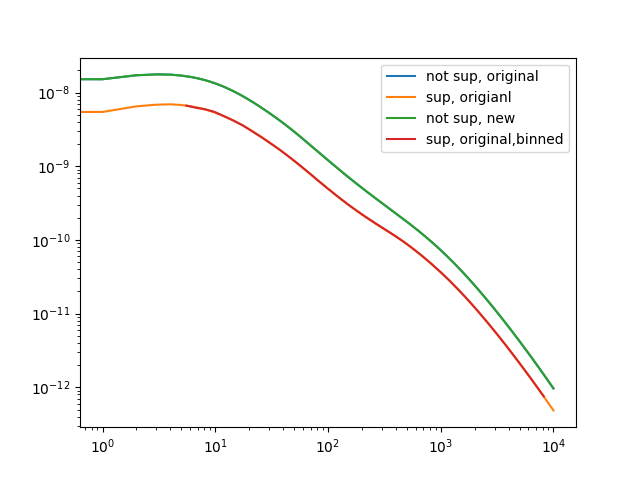
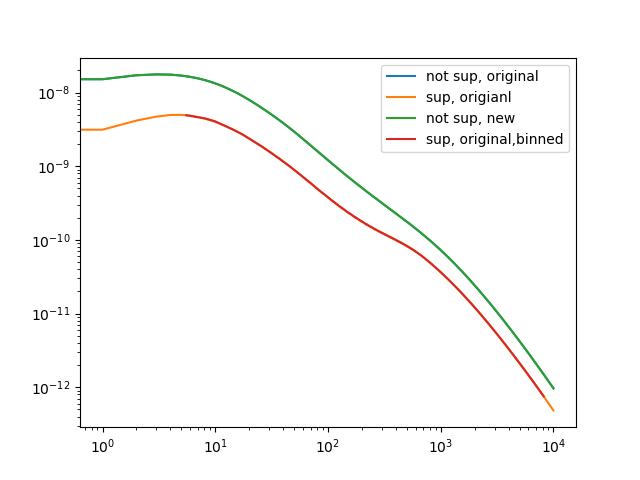
linear fit changes

Changed region(s): [[0.125, 0.1875, 0.625, 0.5], [0.625, 0.5, 0.6562, 0.5312]]

diff --git a/pk_func_fit_linear.py b/pk_func_fit_linear.py
@@ -51,7 +51,8 @@ class Cl_kk_supp:
     mock_data = True
     fname_mock_data = "/home3/kaper/pk_nl/mock_data/mock_cl_z_0.4_lin_fit.txt"
     fname_mock_cinv = "/home3/kaper/pk_nl/mock_data/mock_cinv_z_0.4_lin_fit.txt"
-    n_alphas = 4
+    n_alphas = 3
+    k_bins = np.array([5e-5,4e-3,4e-1,4e1,3e3])
 
     def __init__(self):
         pars = camb.CAMBparams()
@@ -76,14 +77,15 @@ class Cl_kk_supp:
         self.d["data_binned"] = data_binned
         
 
-    def make_mock_data(self,sup,alphas):
+    def make_mock_data(self,alphas,sup_now = True):
         self.alphas = alphas
-        cl = self.get_Cl_kk(sup=sup)
+        cl = self.get_Cl_kk(sup_now=True)
+        cl_out = np.sum(cl,axis=1)
         nls_dict = {'kk': lambda x: x*0+self.shape_std**2/(2.*self.ngal_arcmin2*1.18e7)}
         noise_cov = nls_dict["kk"](self.ells)
         self.noise_cov = noise_cov
-        cls_dict = {"kk":interp1d(self.ells,cl)}
-        cents,data_binned = self.binner.bin(self.ells,cl)
+        cls_dict = {"kk":interp1d(self.ells,cl_out)}
+        cents,data_binned = self.binner.bin(self.ells,cl_out)
         cov = pf.gaussian_band_covariance(self.bin_edges,['kk'],cls_dict,nls_dict,interpolate=False)[:,0,0] / self.fsky
         cinv = np.diag(1./cov)
         return cents,data_binned,cinv
@@ -112,15 +114,17 @@ class Cl_kk_supp:
     def get_pure_Pk(self,k):
         return self.PK.P(self.z_arr,k,grid=False)
 
-    def get_Pk_suppressed(self,k):
+    def get_Pk_suppressed(self,k,sup_now=False):
         Pk = self.get_pure_Pk(k)
-        k_bins = np.geomspace(5e-5,3e3,self.n_alphas+1)
-        inds = np.digitize(k,k_bins)-1
+        #n_alphas = 3
+        inds = np.digitize(k,self.k_bins)-1
         Pk_sup_out = np.zeros((len(Pk),self.n_alphas))
         for ind in range(self.n_alphas):
             inds_mask = (inds==ind)
-            #Pk_sup = self.alphas[ind] * inds_mask * Pk
-            Pk_sup = inds_mask * Pk
+            if sup_now:
+                Pk_sup = self.alphas[ind] * inds_mask * Pk
+            else:
+                Pk_sup = inds_mask * Pk
             Pk_sup_out[:,ind] = Pk_sup
         return Pk_sup_out
 
@@ -137,16 +141,15 @@ class Cl_kk_supp:
         window_kk = f*integral
         return window_kk
 
-    def get_Cl_kk(self):
+    def get_Cl_kk(self,sup_now=False):
         window_kk = self.get_window_kk()
         #self.n_alphas = len(self.alphas)
         C_kk = np.zeros((self.ells.shape[0],self.n_alphas))
         for i in range(len(self.ells)):
             k = (self.ells[i] + 0.5)/self.chi_arr
-            Pk_sup_out = self.get_Pk_suppressed(k)
+            Pk_sup_out = self.get_Pk_suppressed(k,sup_now)
             integrand = (1/self.c)*(self.H_z[:,None] / self.chi_arr[:,None]**2 )*window_kk[:,None]**2 * Pk_sup_out
             C_kk[i,:] = np.trapz(integrand,self.z_arr[:,None],axis=0)
-        print(C_kk.shape)
         return C_kk
     
     def get_Cl_kk_funcs(self):
@@ -156,6 +159,7 @@ class Cl_kk_supp:
     
     def fit_linear_model(self,x,y,cinv,funcs):
         y = y.reshape((y.size,1))
+        np.savetxt("input_data.txt",y)
         A = np.zeros((y.size,len(funcs)))
         for i,func in enumerate(funcs):
             A[:,i] = func(x)
@@ -164,8 +168,16 @@ class Cl_kk_supp:
         Cy = np.dot(cinv,y)
         b = np.dot(A.T,Cy)
         X = np.dot(cov,b)
+        print(b.shape)
+        X0 = np.dot(cov,b*0 + 0.3)
+        print(X0)
         YAX = (y-np.dot(A,X))
+        YAX0 = (y - np.dot(A,X0))
+        print(YAX0)
+        chisquare0 = np.dot(YAX0.T,np.dot(cinv,YAX0))
         chisquare = np.dot(YAX.T,np.dot(cinv,YAX))
+        print('chisqr true param')
+        print(chisquare0)
         return X, chisquare
 
     def eval(self):

diff --git a/tests/test_lin_fit.py b/tests/test_lin_fit.py
@@ -1,10 +1,33 @@
 import sys
 sys.path.append("../")
 import pk_func_fit_linear as pk
+import numpy as np
 
+alphas_true = np.array([0.3])
 pkcl = pk.Cl_kk_supp()
+k_bins = np.array([4.5e-5,3e3])
+pkcl.k_bins = k_bins
+pkcl.n_alphas = len(k_bins)-1
+
+print(pkcl.k_bins)
+print(alphas_true)
+cents,data_binned,cinv = pkcl.make_mock_data(alphas_true,sup_now=True)
+
+cl_arr = np.vstack((cents,data_binned))
+np.savetxt("../mock_data/mock_cl_z_0.4_lin_fit.txt",cl_arr)
+np.savetxt("../mock_data/mock_cinv_z_0.4_lin_fit.txt",cinv)
+
+pkcl.k_bins = k_bins
+
 X,chisquare = pkcl.eval()
+print("results with same bins as mock data")
 print(X)
 print(chisquare)
 
-
+"""
+pkcl.k_bins = k_bins*0.9
+X,chisquare = pkcl.eval()
+print("results with slightly diff bins as mock data")
+print(X)
+print(chisquare)
+"""

diff --git a/tests/test_clkk_basis_funcs.py b/tests/test_clkk_basis_funcs.py
@@ -6,7 +6,7 @@ import pk_func as pk1
 import numpy as np
 import matplotlib.pyplot as plt
 
-alphas = np.arange(0.3,0.7,0.1)
+alphas = np.array([0.1,0.3,0.5,0.7])
 
 pkcl1 = pk1.Cl_kk_supp()
 pkcl2 = pk2.Cl_kk_supp()
@@ -28,8 +28,8 @@ plt.loglog(cents,data_binned,label="sup, original,binned")
 plt.legend()
 plt.savefig("../plots/cl_kk_old_new.png")
 
-k_bins = np.geomspace(5e-3,3e3,len(alphas)+1)
-k_bins = np.round(k_bins,decimals = 3)
+k_bins = np.array([5e-5,5e-3,5e-1,5e1,5e3])
+k_bins = np.round(k_bins,decimals = 6)
 
 fig = plt.figure()
 plt.plot(pkcl1.ells,Cl_o,label="not sup, original")

diff --git a/pk_func.py b/pk_func.py
@@ -114,6 +114,8 @@ class Cl_kk_supp:
     def get_Pk_suppressed(self,k):
         Pk = self.get_pure_Pk(k)
         self.n_alphas = len(self.alphas)
+        #self.n_alphas = 5
+        #k_bins = np.array([5e-5,5e-3,5e-1,5e1,5e3])
         k_bins = np.geomspace(5e-5,3e3,self.n_alphas+1)
         inds = np.digitize(k,k_bins)-1
         alphas_k = [self.alphas[j] for j in inds]

diff --git a/tests/test_pk_basis_funcs.py b/tests/test_pk_basis_funcs.py
@@ -10,8 +10,14 @@ pkcl = pk2.Cl_kk_supp()
 z = 1.
 chi_from_z = interp.interp1d(pkcl.z_arr,pkcl.chi_arr)
 chi = chi_from_z(z)
+chi_arr = pkcl.chi_arr
+print(np.min(chi_arr))
+print(np.max(chi_arr))
 ells = np.round(np.linspace(0,10000,5000))
 k = (ells + 0.5)/chi
+
+print(np.min(k))
+print(np.max(k))
 p = pkcl.get_Pk_suppressed(k)
 
 fig = plt.figure()
